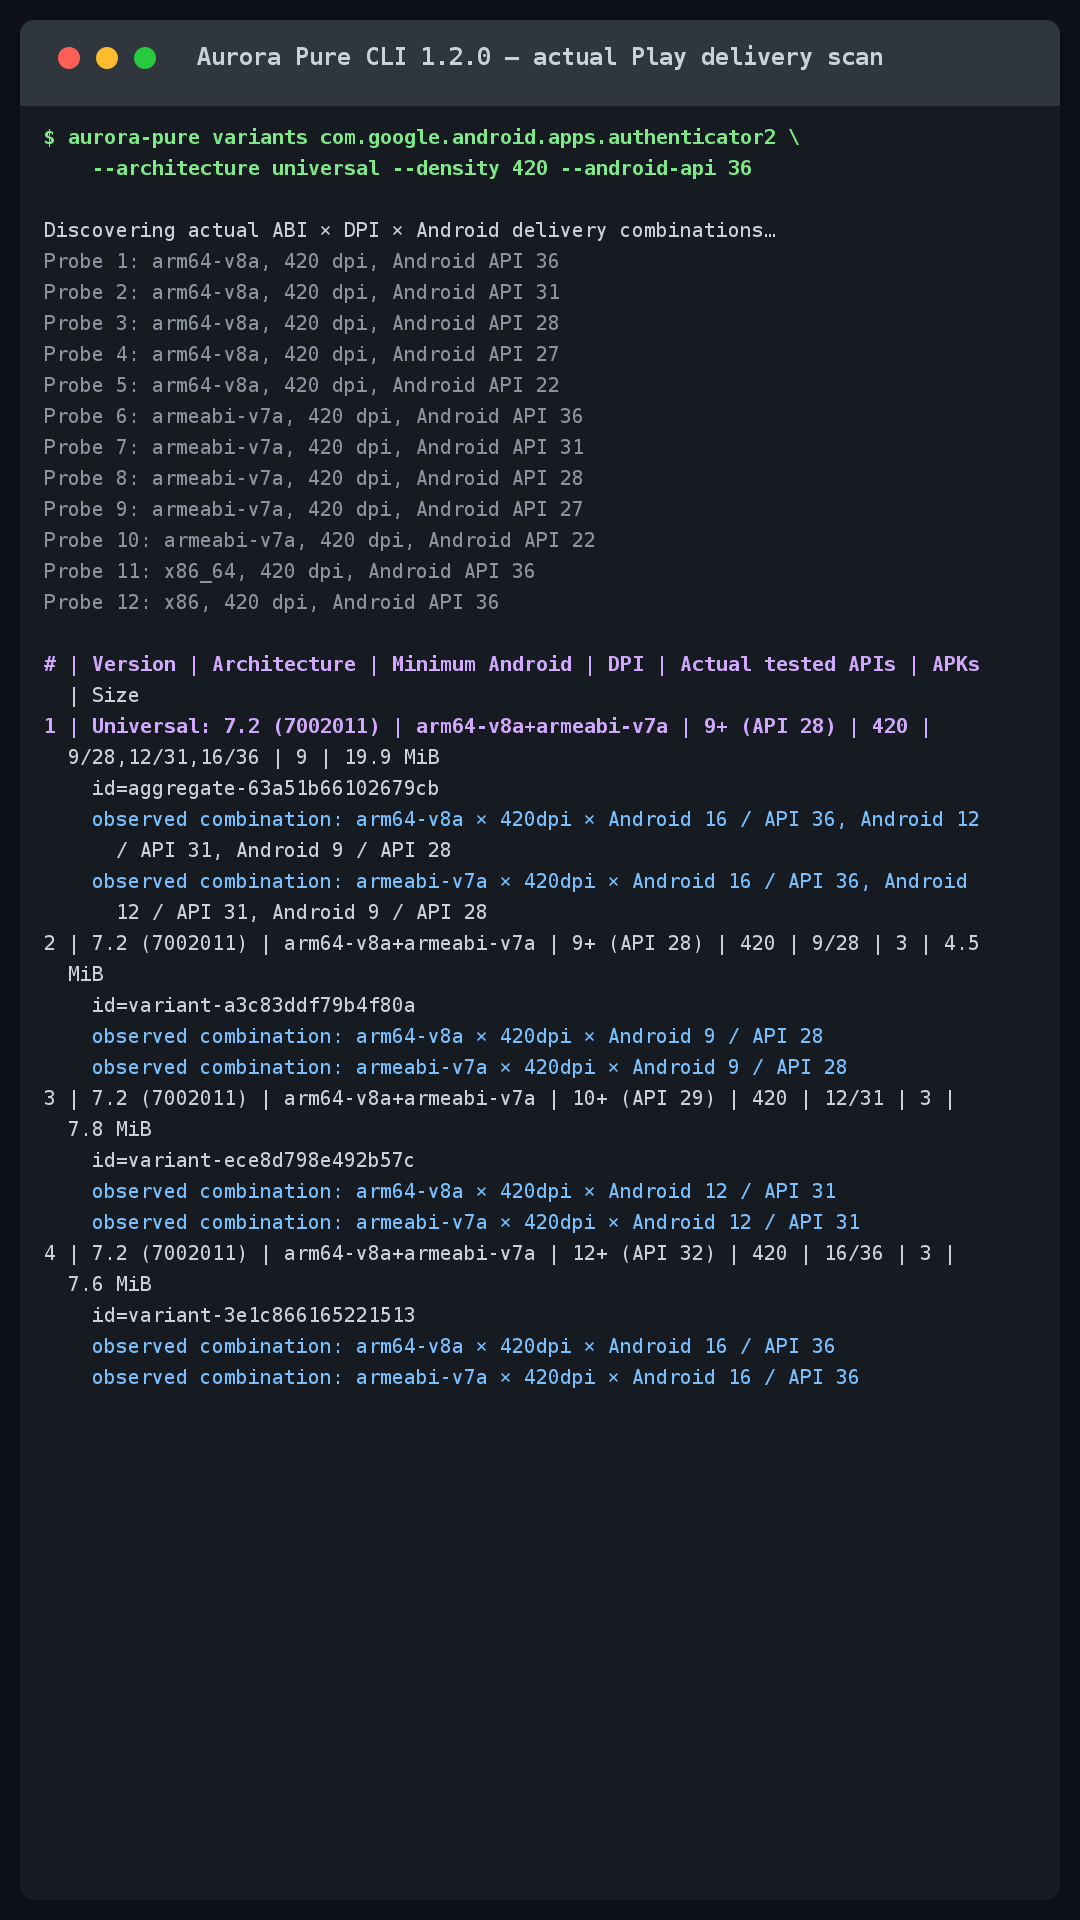
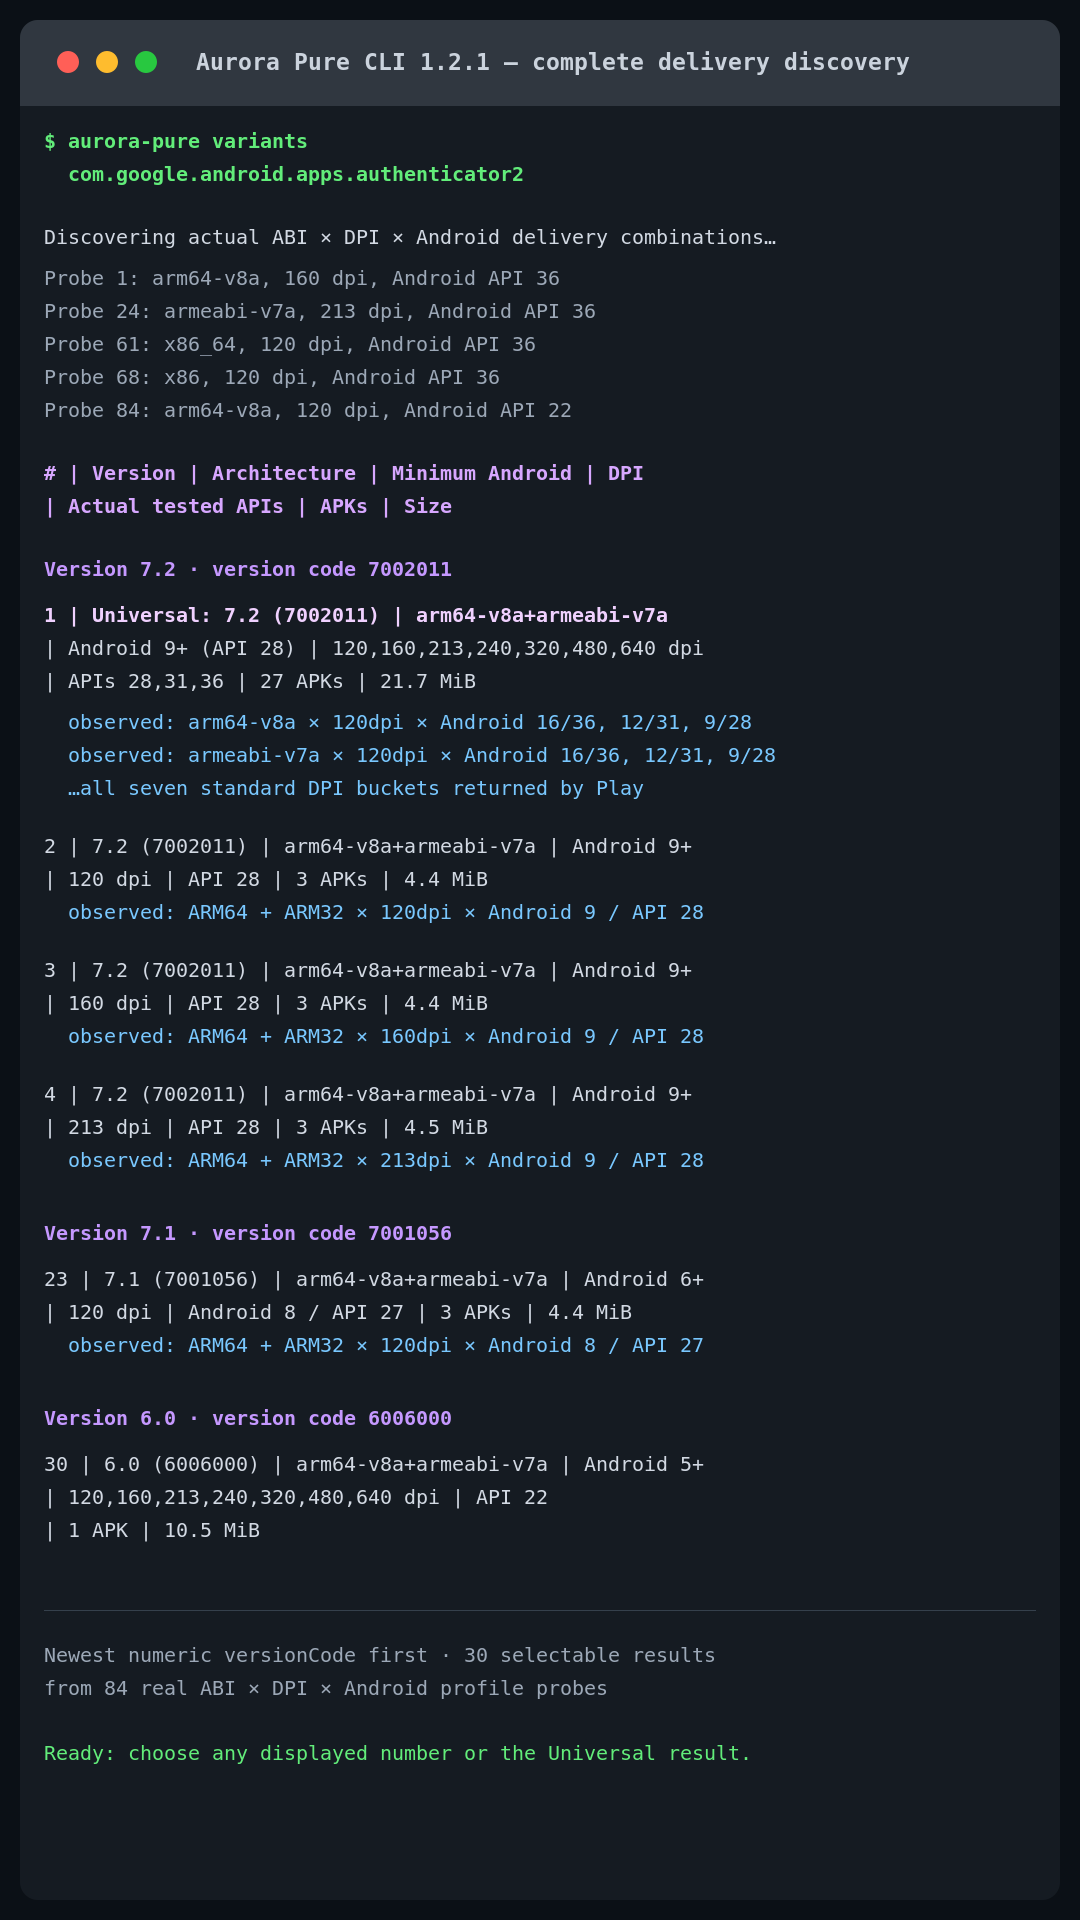
docs: refresh complete discovery screenshots

diff --git a/cli/src/main/kotlin/com/aurora/pure/cli/Main.kt b/cli/src/main/kotlin/com/aurora/pure/cli/Main.kt
@@ -551,7 +551,11 @@ private fun printVariants(variants: List<DeliveryVariant>, messages: Messages) {
         .toSortedMap(reverseOrder())
         .forEach { (versionCode, indexedVariants) ->
             println()
-            println(messages.text("version.group", indexedVariants.first().value.versionName, versionCode))
+            println(messages.text(
+                "version.group",
+                indexedVariants.first().value.versionName,
+                versionCode.toString()
+            ))
             indexedVariants.forEach { indexedVariant ->
                 val index = indexedVariant.index
                 val variant = indexedVariant.value

diff --git a/README.ja.md b/README.ja.md
@@ -13,9 +13,10 @@ Aurora Pure は、Google Play が実際に配信する APK ファイルを保存
 ## 現在の画面
 
 <p align="center">
-  <img src="docs/screenshots/search-en.png" width="30%" alt="Aurora Pure の英語検索画面">
-  <img src="docs/screenshots/variants-en.png" width="30%" alt="実在する ABI、Android、画面 DPI バリアントの選択">
-  <img src="docs/screenshots/cli-en.png" width="30%" alt="Aurora Pure の対話型デスクトップ CLI">
+  <img src="docs/screenshots/search-en.png" width="23%" alt="Aurora Pure の英語検索画面">
+  <img src="docs/screenshots/discovery-en.png" width="23%" alt="ABI、DPI、Android の実際の調査進捗">
+  <img src="docs/screenshots/variants-en.png" width="23%" alt="最新バージョン順にまとめた未選択の実在する組み合わせ">
+  <img src="docs/screenshots/cli-en.png" width="23%" alt="Aurora Pure の対話型デスクトップ CLI">
 </p>
 
 上の Android 画面と CLI 画像は 1.2.1 リリース候補から作成しています。Android アプリと CLI は英語、簡体字中国語、日本語、韓国語に完全対応します。

diff --git a/README.md b/README.md
@@ -13,9 +13,10 @@ Aurora Pure is a download-only Android app and desktop CLI for saving APK files 
 ## Current interface
 
 <p align="center">
-  <img src="docs/screenshots/search-en.png" width="30%" alt="Aurora Pure English search screen">
-  <img src="docs/screenshots/variants-en.png" width="30%" alt="Selectable real ABI, Android, and screen-DPI variants">
-  <img src="docs/screenshots/cli-en.png" width="30%" alt="Aurora Pure interactive desktop CLI">
+  <img src="docs/screenshots/search-en.png" width="23%" alt="Aurora Pure English search screen">
+  <img src="docs/screenshots/discovery-en.png" width="23%" alt="Live ABI, DPI, and Android discovery progress">
+  <img src="docs/screenshots/variants-en.png" width="23%" alt="Unselected results grouped by newest version">
+  <img src="docs/screenshots/cli-en.png" width="23%" alt="Aurora Pure interactive desktop CLI">
 </p>
 
 The Android screenshots and CLI capture above are generated from the 1.2.1 release candidate. The interface is fully available in English, Simplified Chinese, Japanese, and Korean.
